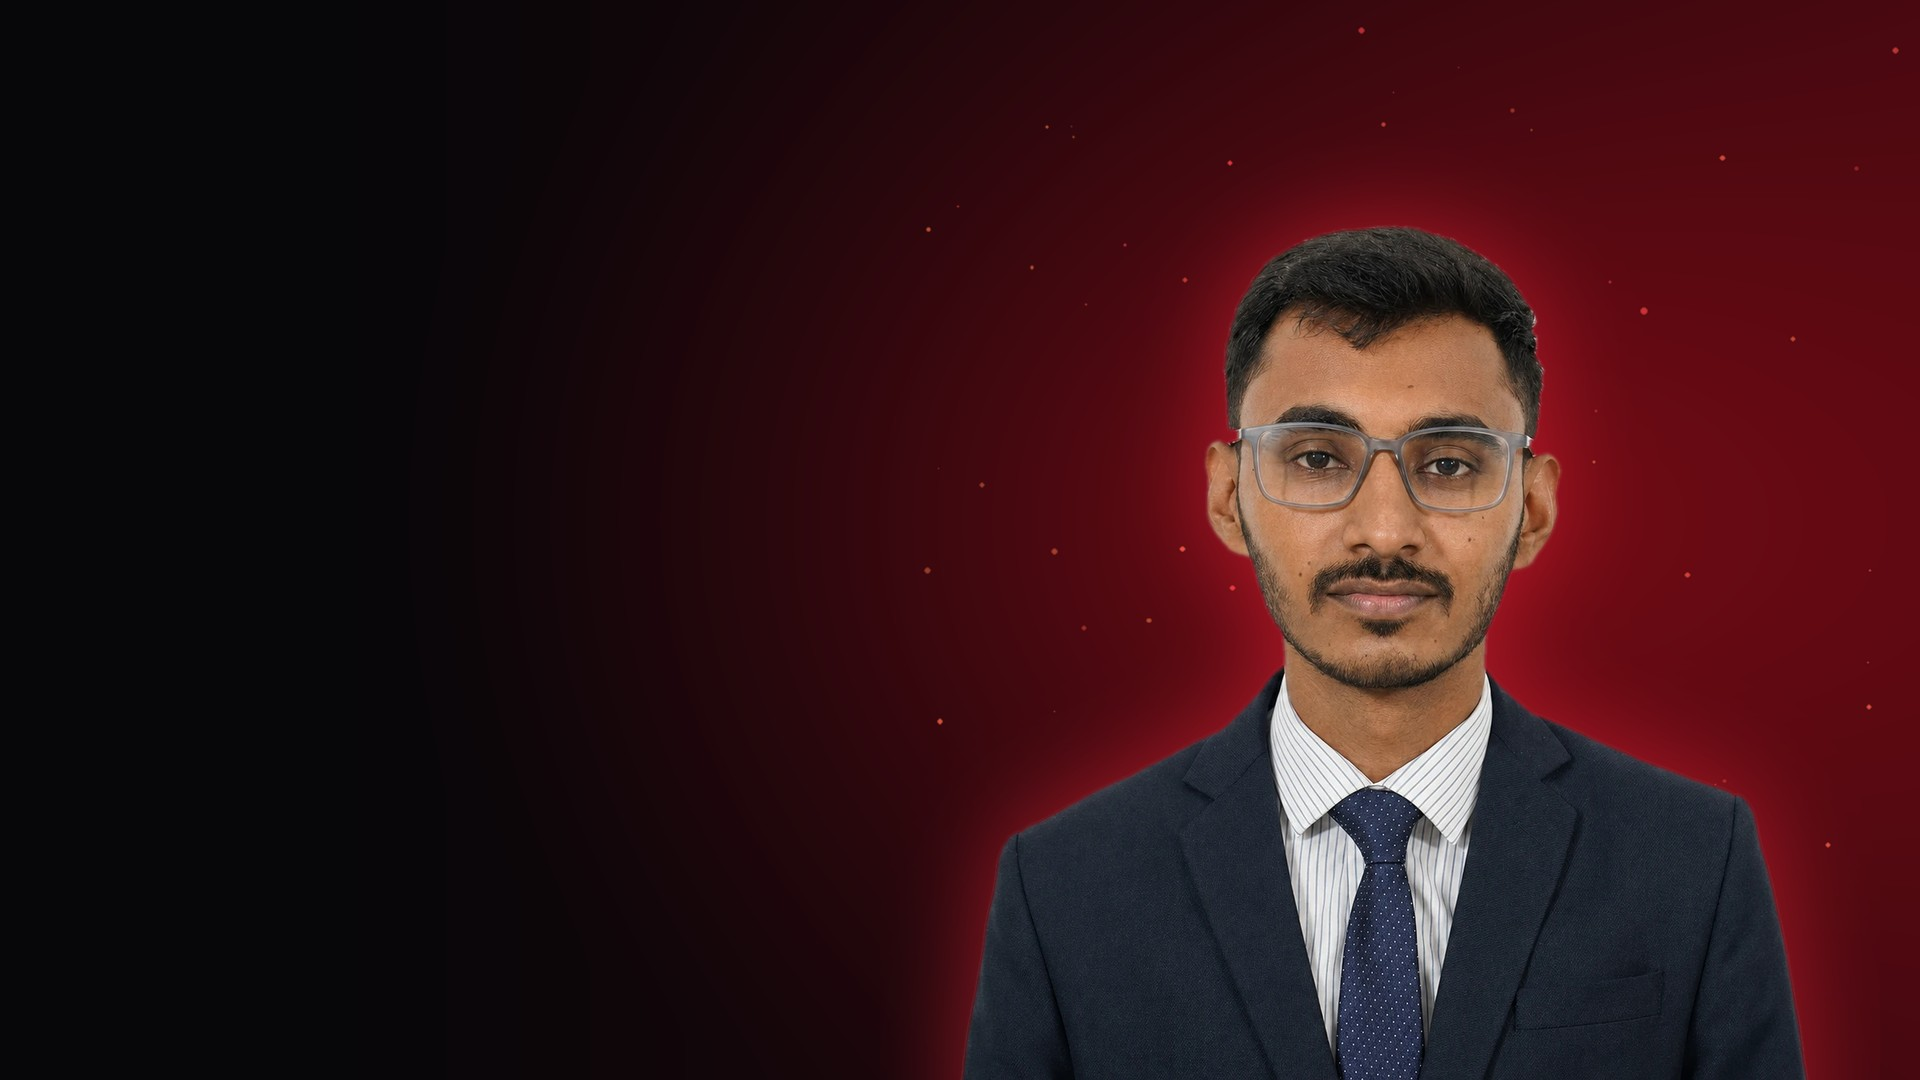
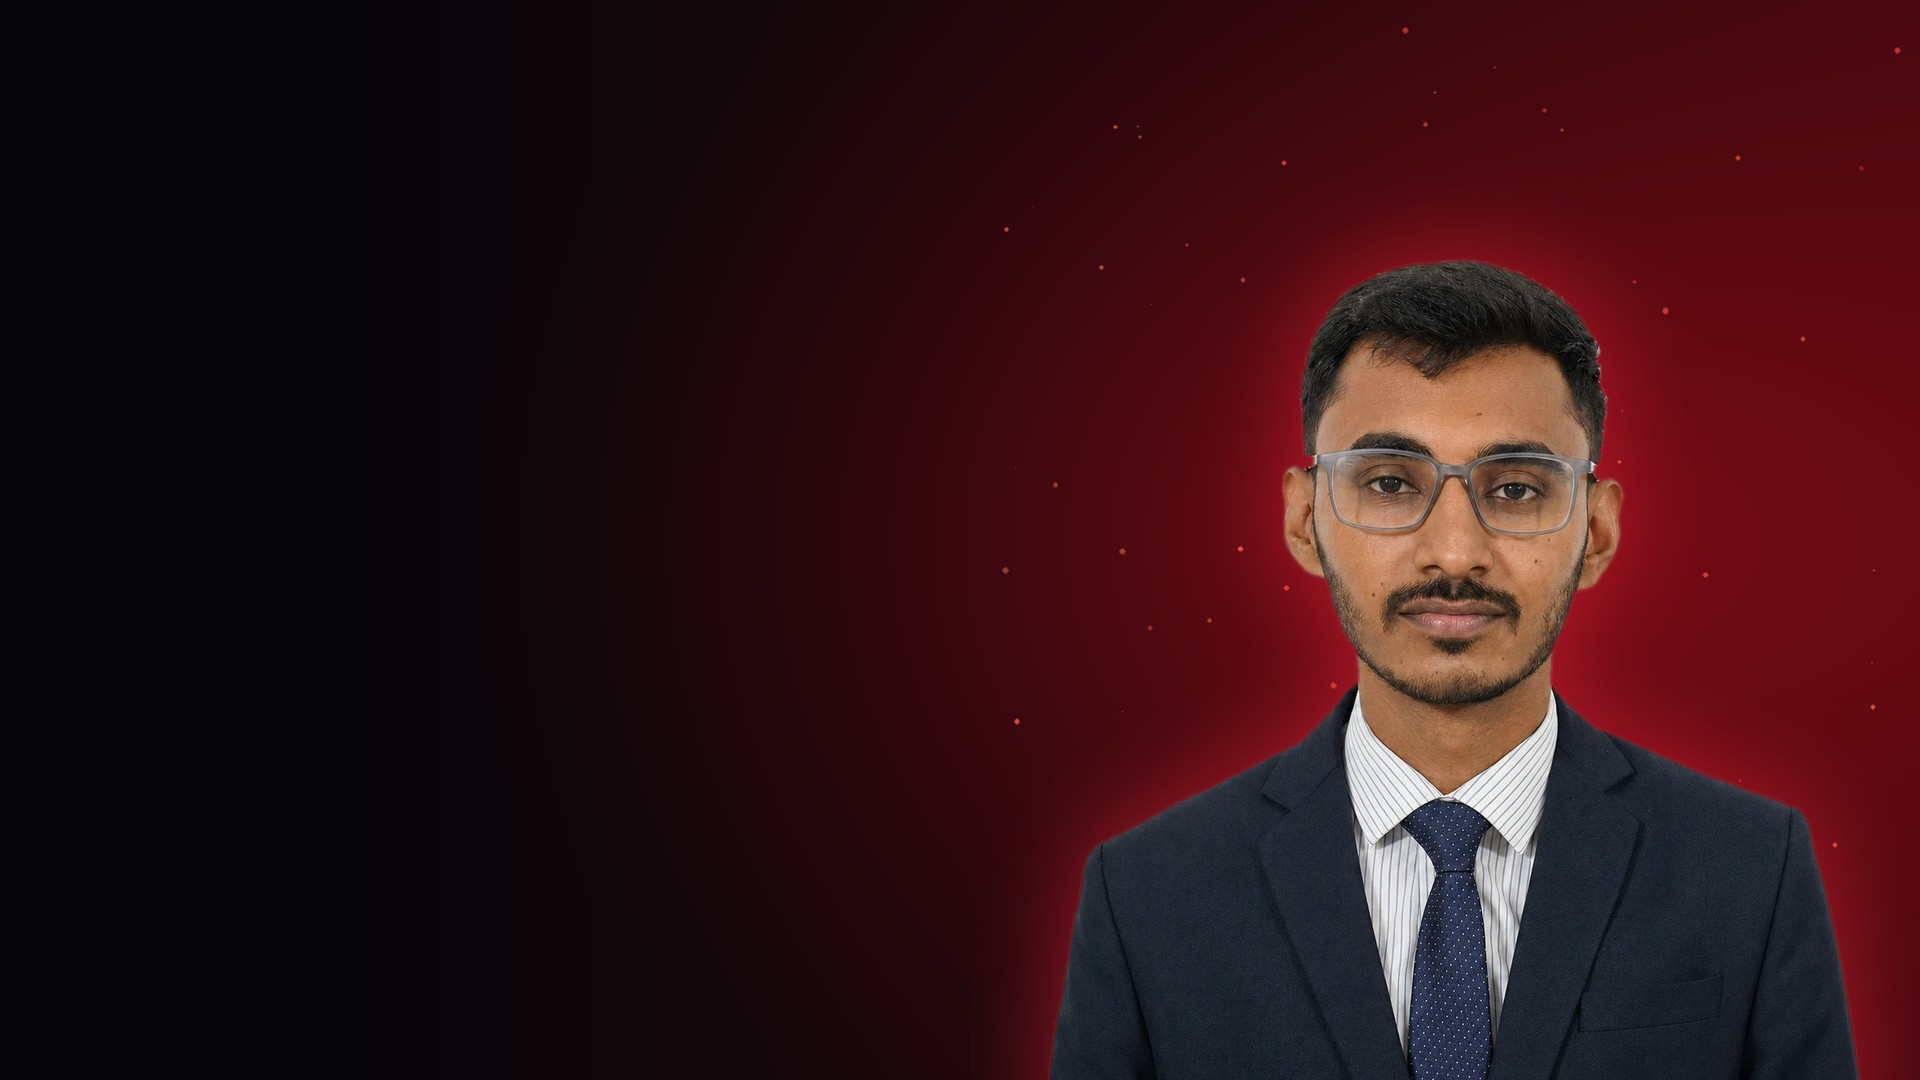
Keep hero glass cracks off the portrait face
Move crack vertices into the left half on desktop, squeeze them into the
bottom quarter on phones, and shift the portrait right.

diff --git a/src/components/Hero.tsx b/src/components/Hero.tsx
@@ -21,7 +21,7 @@ import {
 const IMG_HERO_RED = HERO.image;
 
 /** Horizontal position (0..1) of the subject inside the 16:9 hero image. */
-const SUBJECT_X = 0.69;
+const SUBJECT_X = 0.755;
 
 /* ───────────────────────── Reveal-on-scroll for the hero copy ───────────────────────── */
 function useRevealOnScroll(rootRef: React.RefObject<HTMLElement>, selector: string) {
@@ -242,7 +242,8 @@ export const Hero: React.FC = () => {
             px += Math.sin(t * 0.5 + b * 2.1) * 0.006;
             py += Math.cos(t * 0.4 + b * 1.3) * 0.006;
           }
-          if (isMobile) [px, py] = [py, px]; // portrait plate on phones
+          // portrait plate on phones: rotate, and squeeze the cracks (all at x <= 0.5) into the bottom quarter so they stay off the face
+          if (isMobile) [px, py] = [py, px <= 0.5 ? 1 - px * 0.5 : 1.5 * (1 - px)];
           return [(px - 0.5) * plateW, (0.5 - py) * plateH];
         });
 

diff --git a/src/components/heroShards.ts b/src/components/heroShards.ts
@@ -8,14 +8,16 @@ import * as THREE from 'three';
 export type Pt = [number, number];
 
 /* ── shared crack vertices ── */
-const V_TOP_A: Pt = [0.22, 0];
-const V_TOP_B: Pt = [0.515, 0];
-const V_TOP_C: Pt = [0.84, 0];
-const V_BOT_A: Pt = [0.34, 1];
-const V_BOT_B: Pt = [0.865, 1];
-const V_MID_A: Pt = [0.385, 0.72];
-const V_MID_B: Pt = [0.48, 0.62];
-const V_MID_C: Pt = [0.716, 0.49]; // the "centre" of the crack star
+// Cracks are kept in the left half so the portrait (right side) sits on one
+// unbroken pane and no seam crosses the face.
+const V_TOP_A: Pt = [0.17, 0];
+const V_TOP_B: Pt = [0.36, 0];
+const V_TOP_C: Pt = [0.5, 0];
+const V_BOT_A: Pt = [0.25, 1];
+const V_BOT_B: Pt = [0.47, 1];
+const V_MID_A: Pt = [0.29, 0.74];
+const V_MID_B: Pt = [0.34, 0.6];
+const V_MID_C: Pt = [0.46, 0.47]; // the "centre" of the crack star
 
 /** The five shards that tile the plate. */
 export const SHARD_POLYGONS: Pt[][] = [
